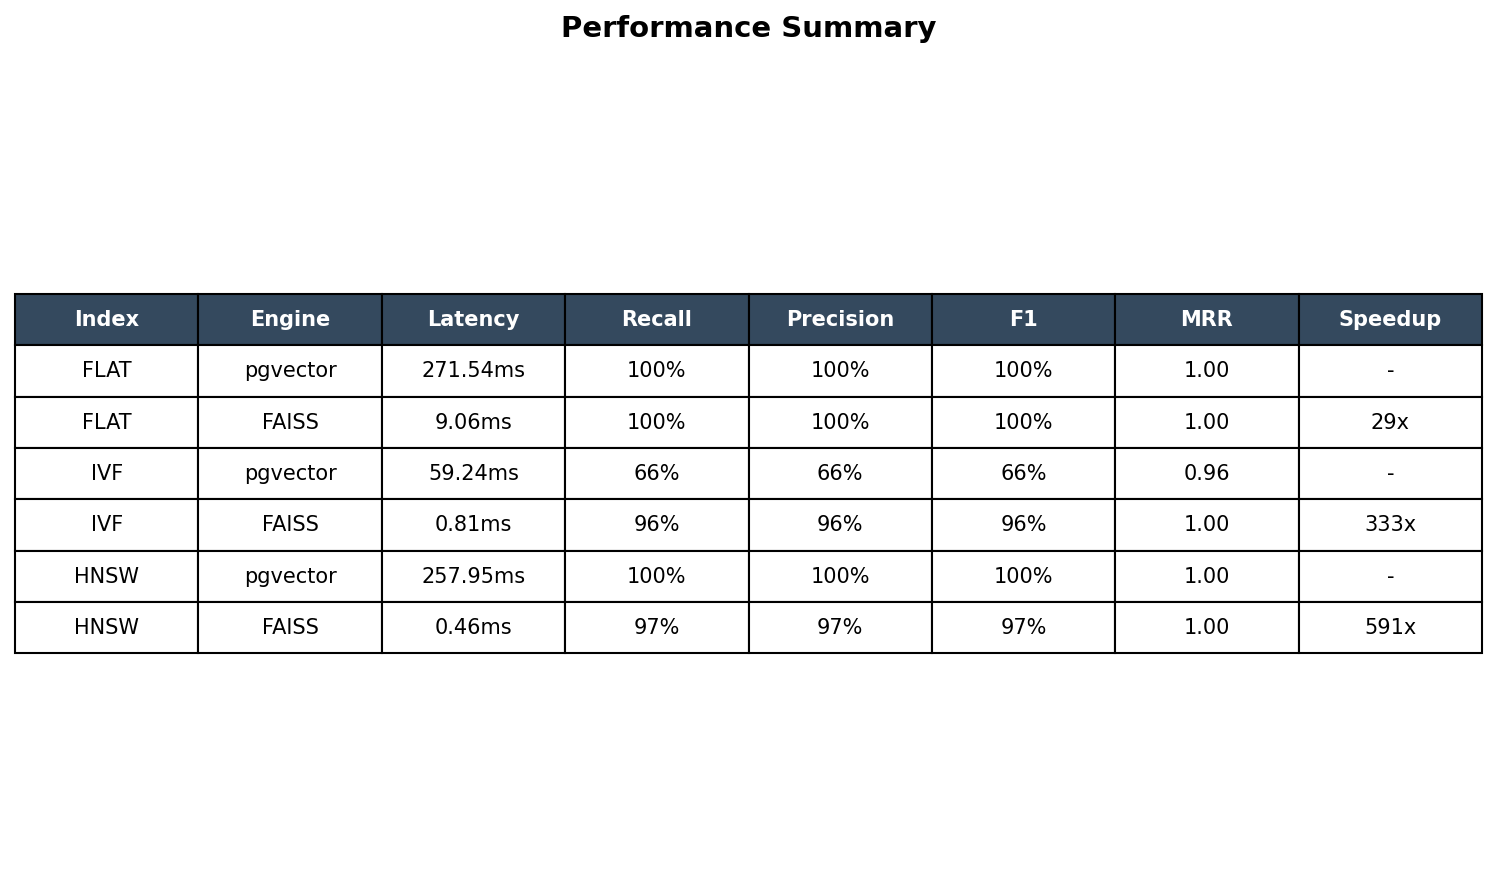
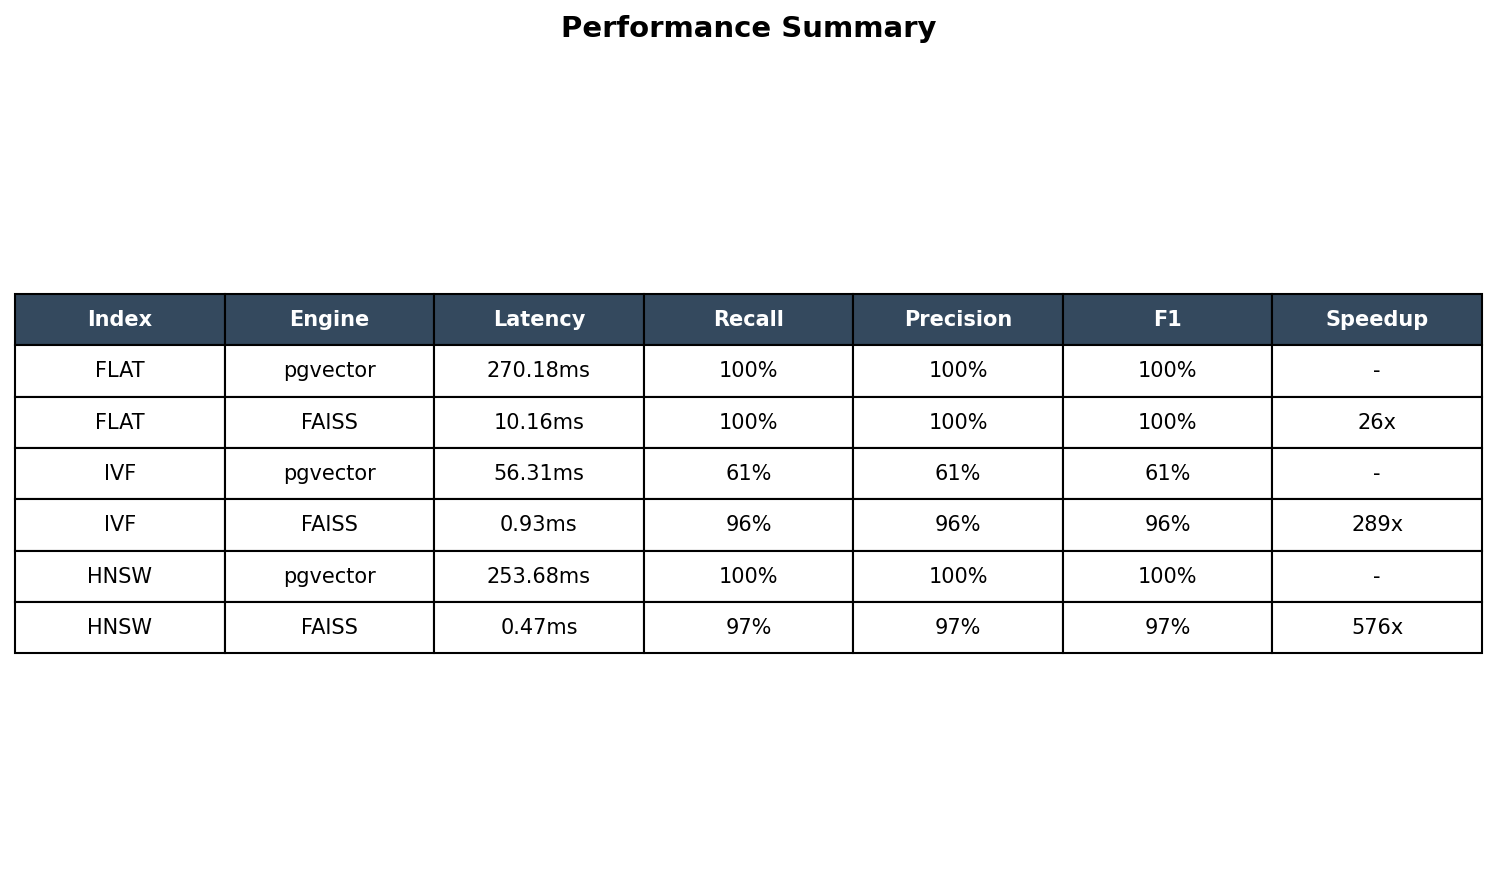
No MRR Benchmarks

diff --git a/src/benchmarks/index_comparison.py b/src/benchmarks/index_comparison.py
@@ -419,7 +419,7 @@ def plot_summary_table(results, output_dir):
     fig, ax = plt.subplots(figsize=(10, 6))
     ax.axis("off")
     
-    table_data = [["Index", "Engine", "Latency", "Recall", "Precision", "F1", "MRR", "Speedup"]]
+    table_data = [["Index", "Engine", "Latency", "Recall", "Precision", "F1", "Speedup"]]
     baseline = data["pgvector"]["flat"]["latency_ms"]
     
     for idx in index_types:
@@ -433,7 +433,7 @@ def plot_summary_table(results, output_dir):
             table_data.append([
                 idx.upper(), eng, f"{r['latency_ms']:.2f}ms", 
                 f"{r['recall']:.0%}", f"{r['precision']:.0%}", 
-                f"{r['f1']:.0%}", f"{r['mrr']:.2f}", spd_str
+                f"{r['f1']:.0%}", spd_str
             ])
     
     table = ax.table(cellText=table_data[1:], colLabels=table_data[0],
@@ -587,8 +587,8 @@ def main():
         
         speedup = pg_result["avg_ms"] / fa_result["avg_ms"] if fa_result["avg_ms"] > 0 else 0
         print(f"\n  {idx_type.upper()}: pg {pg_result['avg_ms']:.2f}ms vs FAISS {fa_result['avg_ms']:.4f}ms ({speedup:.0f}x)")
-        print(f"         pg: R={pg_recall:.0%} P={pg_precision:.0%} MRR={pg_mrr:.2} F1={pg_f1:.0%}")
-        print(f"         FAISS: R={fa_recall:.0%} P={fa_precision:.0%} MRR={fa_mrr:.2} F1={fa_f1:.0%}")
+        print(f"         pg: R={pg_recall:.0%} P={pg_precision:.0%} F1={pg_f1:.0%}")
+        print(f"         FAISS: R={fa_recall:.0%} P={fa_precision:.0%} F1={fa_f1:.0%}")
         
         all_run_results.append(results)
     
@@ -616,8 +616,8 @@ def main():
     print("\n" + "=" * 110)
     print("FINAL SUMMARY (Statistical Analysis)")
     print("=" * 110)
-    print(f"\n{'Engine':<10} {'Index':<6} {'Latency (ms)':<20} {'Recall':<8} {'Precision':<10} {'MRR':<8} {'F1':<8} {'Speedup'}")
-    print("-" * 100)
+    print(f"\n{'Engine':<10} {'Index':<6} {'Latency (ms)':<20} {'Recall':<8} {'Precision':<10} {'F1':<8} {'Speedup'}")
+    print("-" * 85)
     
     baseline = next(r["latency_ms"] for r in results if r["engine"].lower() == "pgvector" and r["index_type"] == "flat")
     for r in results:
@@ -629,7 +629,7 @@ def main():
             lat_str = f"{r['latency_ms']:.2f} ± {std_val:.2f}"
         else:
             lat_str = f"{r['latency_ms']:.2f}"
-        print(f"{r['engine']:<10} {r['index_type']:<6} {lat_str:<20} {r['recall']:.2%}    {r['precision']:.2%}       {r['mrr']:.2f}    {r['f1']:.2%}    {marker}")
+        print(f"{r['engine']:<10} {r['index_type']:<6} {lat_str:<20} {r['recall']:.2%}    {r['precision']:.2%}    {r['f1']:.2%}    {marker}")
     
     # Print sample size info
     num_queries = len(QUERIES)

diff --git a/streamlit_app.py b/streamlit_app.py
@@ -15,7 +15,7 @@ def check_api():
         return None
     return None
 
-
+    
 def search_documents(query: str, limit: int = 5):
     try:
         resp = requests.post(
